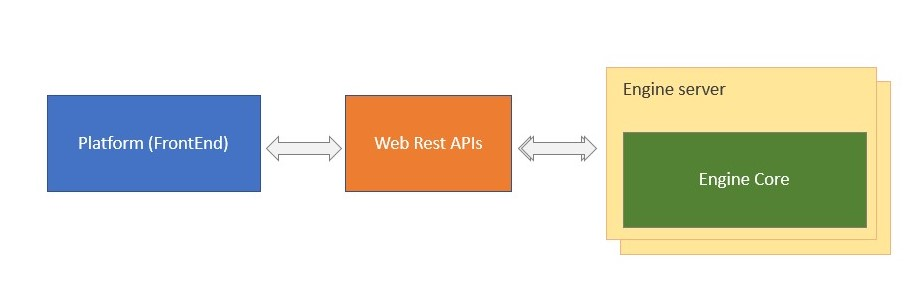
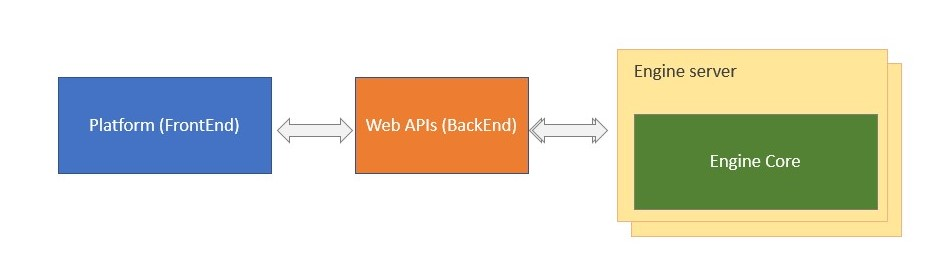
README updated

Changed region(s): [[0.0307, 0.1733, 0.9814, 0.8953], [0.736, 0.5487, 0.8894, 0.6643]]

diff --git a/README.md b/README.md
@@ -19,6 +19,8 @@ This repository contains the core code (Engine Core) which works like a "library
 
 ![Platform Example on Editor Flow](misc/Current.jpg)
 
+__Quick Note:__ Currently FrontEnd and BackEnd is made on PHP using CodeIgniter and the core part (engine-core) is already migrated to Java, now the PHP application is calling a web service provided by engine-server.
+
 The "Engine Core" runs in "Engine Server" which is basically a Spring Boot server providing the core as a web service.
 
 We can see it working by running the test class `ComposerTest` which uses `simple_flow.json` as input file (The same data that comes from the FrontEnd).
@@ -42,9 +44,5 @@ Workflow should look like:
 If we go to "Setup of Parameters":
 ![Setup of Parameters](misc/ParametersSetupOverview.png)
 Design formula would jump to "Formula Designer"
-
-#### Current Status:
-The application will be fully migrated to Java/Spring, currently the application web (UI/DB) part is made on PHP
-using CodeIgniter and the core part (engine-core) is already migrated to Java, now the PHP application is calling a web service provided by engine-server.
 
 
